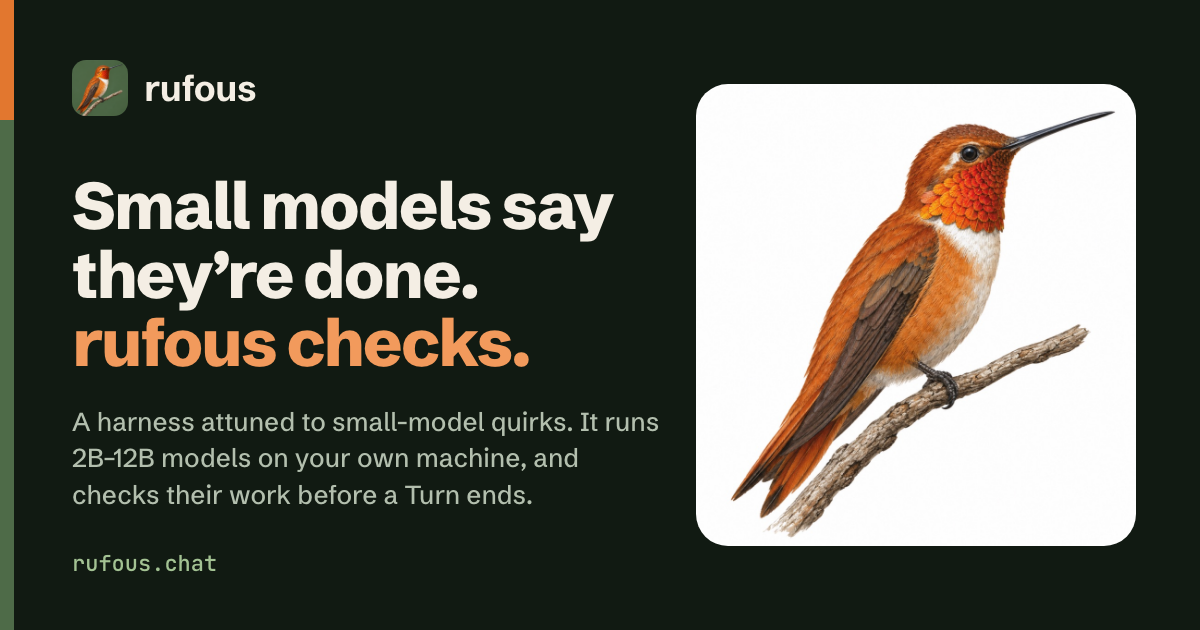
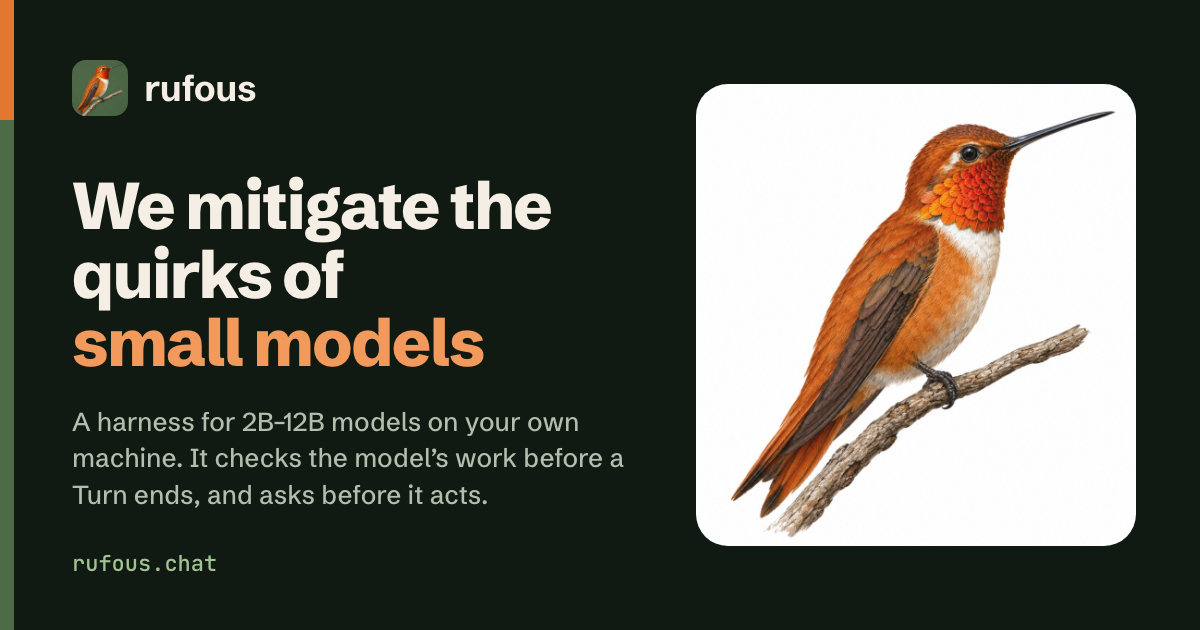
Headline: "We mitigate the quirks of small models"
Replaces "Small models say they're done. rufous checks." on the home
page and the social card. The hero eyebrow goes back to "An alpha
release, written in Rust" so "quirks" isn't said twice in a row; the
tagline stays in the page title and og:description.

Changed region(s): [[0.0617, 0.2714, 0.5242, 0.6032], [0.0617, 0.6333, 0.555, 0.8143]]

diff --git a/index.html b/index.html
@@ -11,11 +11,11 @@
   <meta property="og:type" content="website">
   <meta property="og:url" content="https://rufous.chat/">
   <meta property="og:title" content="rufous: a harness attuned to small-model quirks">
-  <meta property="og:description" content="Small models will tell you they are done. rufous checks. An agent harness for 2B–12B models that runs on your own machine, and asks before it acts.">
+  <meta property="og:description" content="A harness attuned to small-model quirks. It runs 2B–12B models on your own machine, checks their work before a Turn ends, and asks before it acts.">
   <meta property="og:image" content="https://rufous.chat/assets/img/social-card.png">
   <meta property="og:image:width" content="1200">
   <meta property="og:image:height" content="630">
-  <meta property="og:image:alt" content="rufous: Small models say they’re done. rufous checks. A harness attuned to small-model quirks, beside a painting of a rufous hummingbird.">
+  <meta property="og:image:alt" content="rufous: We mitigate the quirks of small models. A harness for 2B–12B models on your own machine, beside a painting of a rufous hummingbird.">
   <meta name="twitter:card" content="summary_large_image">
 
   <link rel="icon" href="assets/img/favicon.svg" type="image/svg+xml">
@@ -58,8 +58,8 @@
   <!-- Hero -->
   <section id="top" class="hero container">
     <div class="hero-copy">
-      <p class="eyebrow">A harness attuned to small-model quirks</p>
-      <h1>Small models say they’re done. rufous checks.</h1>
+      <p class="eyebrow">An alpha release, written in Rust</p>
+      <h1>We mitigate the quirks of small models</h1>
       <p class="hero-sub">rufous is an agent harness for 2B–12B models running on your own machine, either inside your editor or in its own web UI. While the model works, rufous keeps a <strong>Record</strong> of every Tool Call, one the model has no way of editing. Before a Turn ends, we hold the model’s report up against that Record. That is how we catch the file you named that never got written, the write you declined, and the refusal the model only half remembers.</p>
       <div class="hero-ctas">
         <a class="btn btn-primary" href="#download">
@@ -76,7 +76,7 @@
           <svg class="icon-check" aria-hidden="true" width="16" height="16" viewBox="0 0 24 24" fill="none" stroke="currentColor" stroke-width="2.4" stroke-linecap="round" stroke-linejoin="round"><path d="m5 12 5 5 9-10"/></svg>
         </button>
       </div>
-      <p class="hero-note">rufous is in alpha. There is a single binary for macOS and Linux, and a zip for Windows. rufous is licensed under Apache-2.0, and you won’t need an account. Nothing about your usage is sent back to us.</p>
+      <p class="hero-note">There is a single binary for macOS and Linux, and a zip for Windows. rufous is licensed under Apache-2.0, and you won’t need an account. Nothing about your usage is sent back to us.</p>
     </div>
 
     <div class="hero-visual">

diff --git a/social/card.html b/social/card.html
@@ -24,8 +24,8 @@
 <div class="bar"></div>
 <div class="brand"><img src="../assets/img/rufous-icon-512.png" alt=""><span>rufous</span></div>
 <div class="copy">
-  <h1>Small models say they’re done. <em>rufous checks.</em></h1>
-  <p class="lede">A harness attuned to small-model quirks. It runs 2B–12B models on your own machine, and checks their work before a Turn ends.</p>
+  <h1>We mitigate the quirks of <em>small models</em></h1>
+  <p class="lede">A harness for 2B–12B models on your own machine. It checks the model’s work before a Turn ends, and asks before it acts.</p>
 </div>
 <div class="plate"><img src="../assets/img/rufous-on-branch.jpg" alt=""></div>
 <div class="foot">rufous.chat</div>

diff --git a/guide.html b/guide.html
@@ -15,7 +15,7 @@
   <meta property="og:image" content="https://rufous.chat/assets/img/social-card.png">
   <meta property="og:image:width" content="1200">
   <meta property="og:image:height" content="630">
-  <meta property="og:image:alt" content="rufous: Small models say they’re done. rufous checks. A harness attuned to small-model quirks, beside a painting of a rufous hummingbird.">
+  <meta property="og:image:alt" content="rufous: We mitigate the quirks of small models. A harness for 2B–12B models on your own machine, beside a painting of a rufous hummingbird.">
   <meta name="twitter:card" content="summary_large_image">
 
   <link rel="icon" href="assets/img/favicon.svg" type="image/svg+xml">
